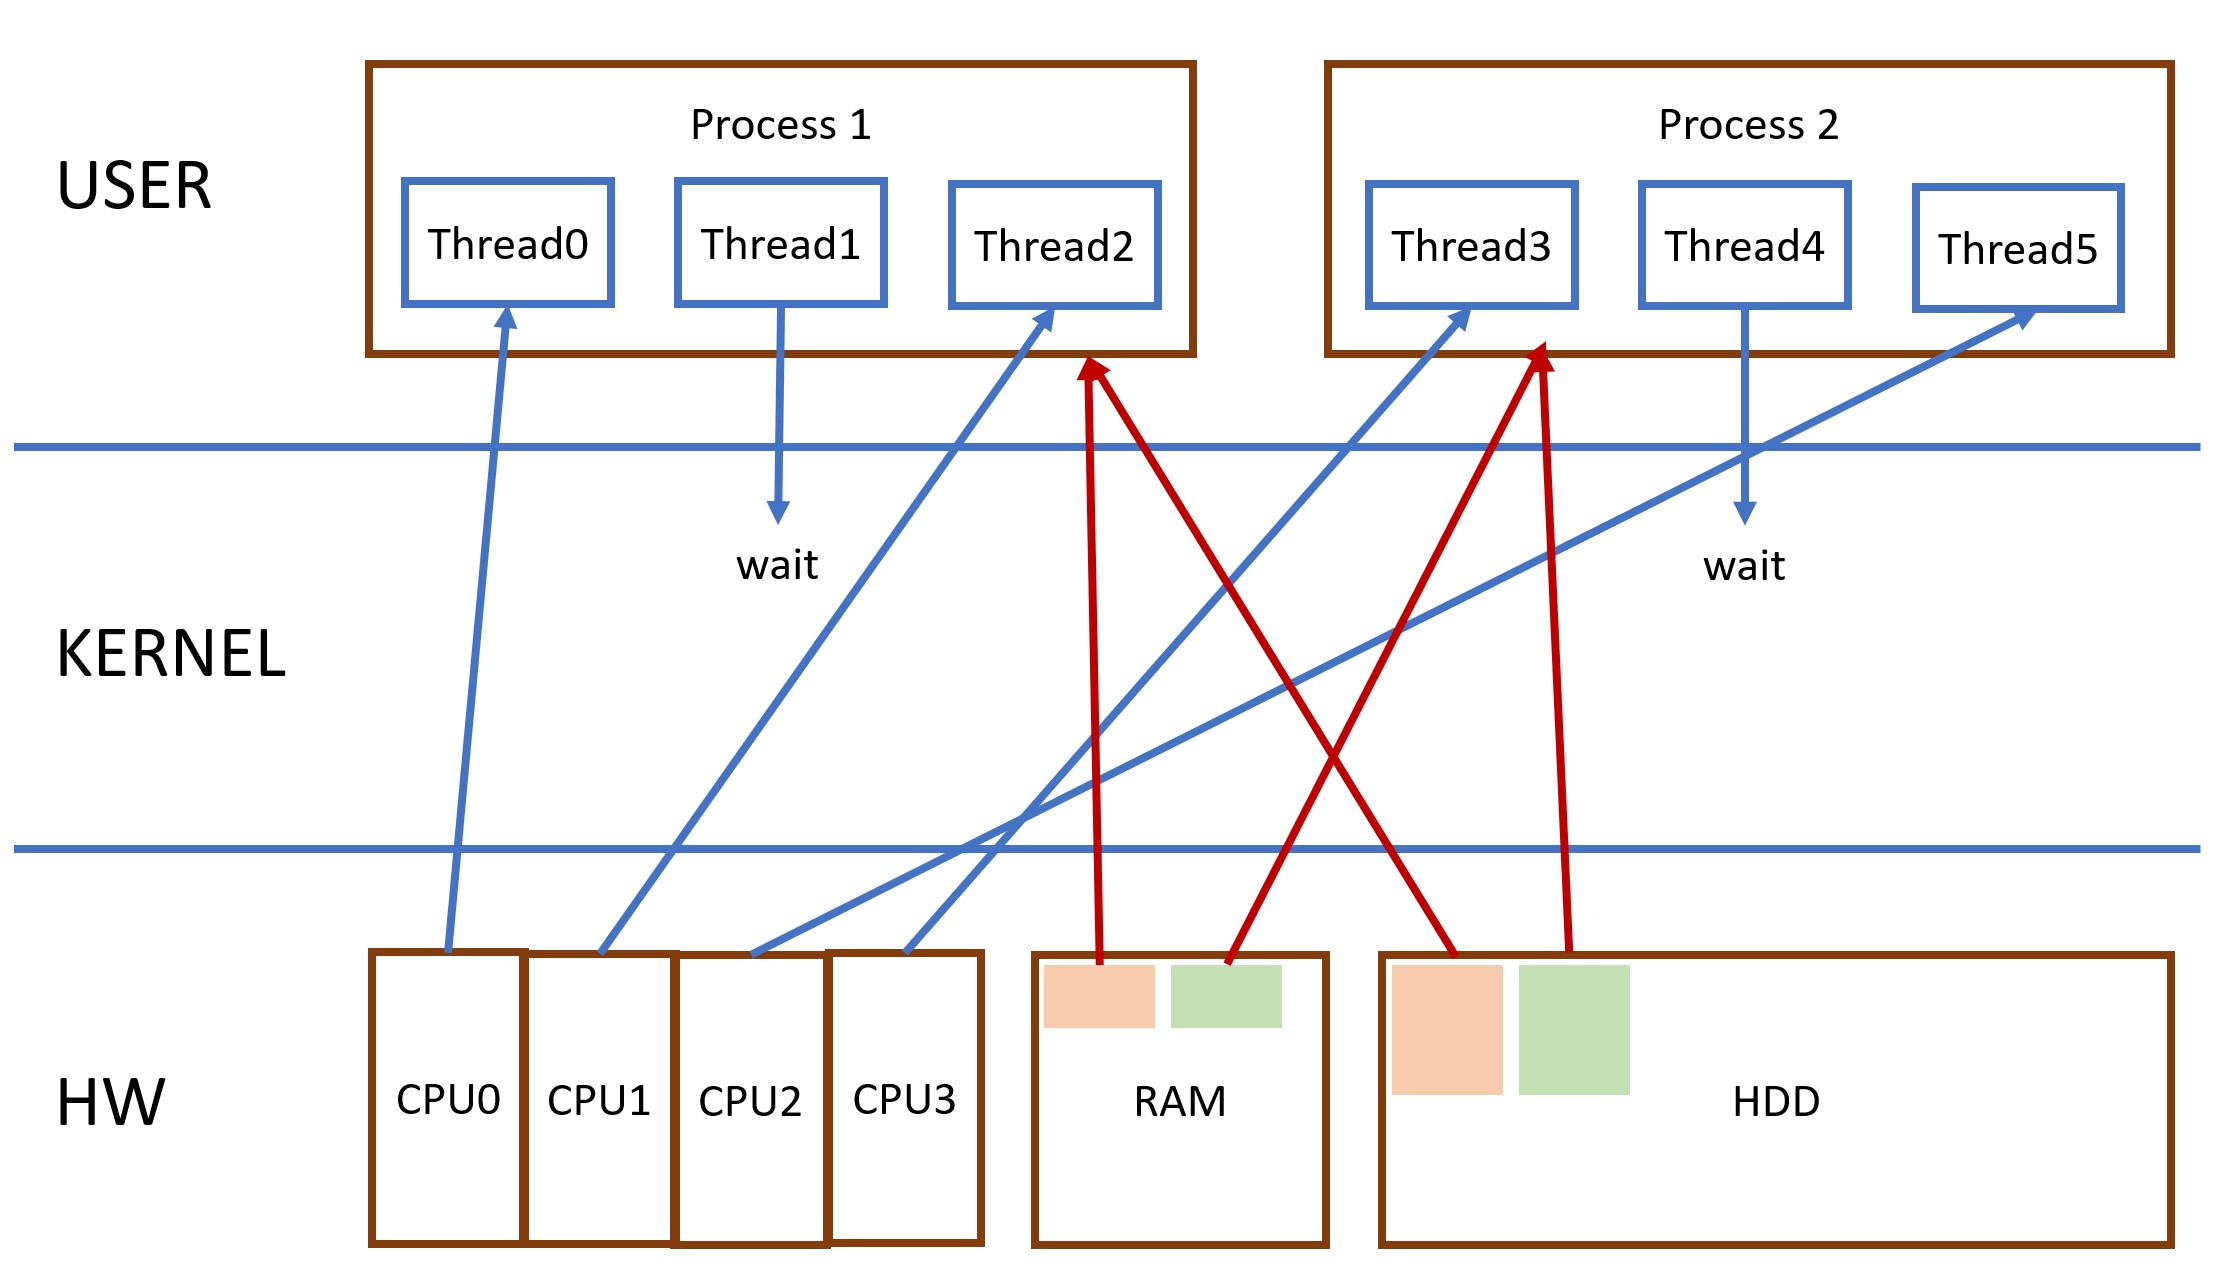
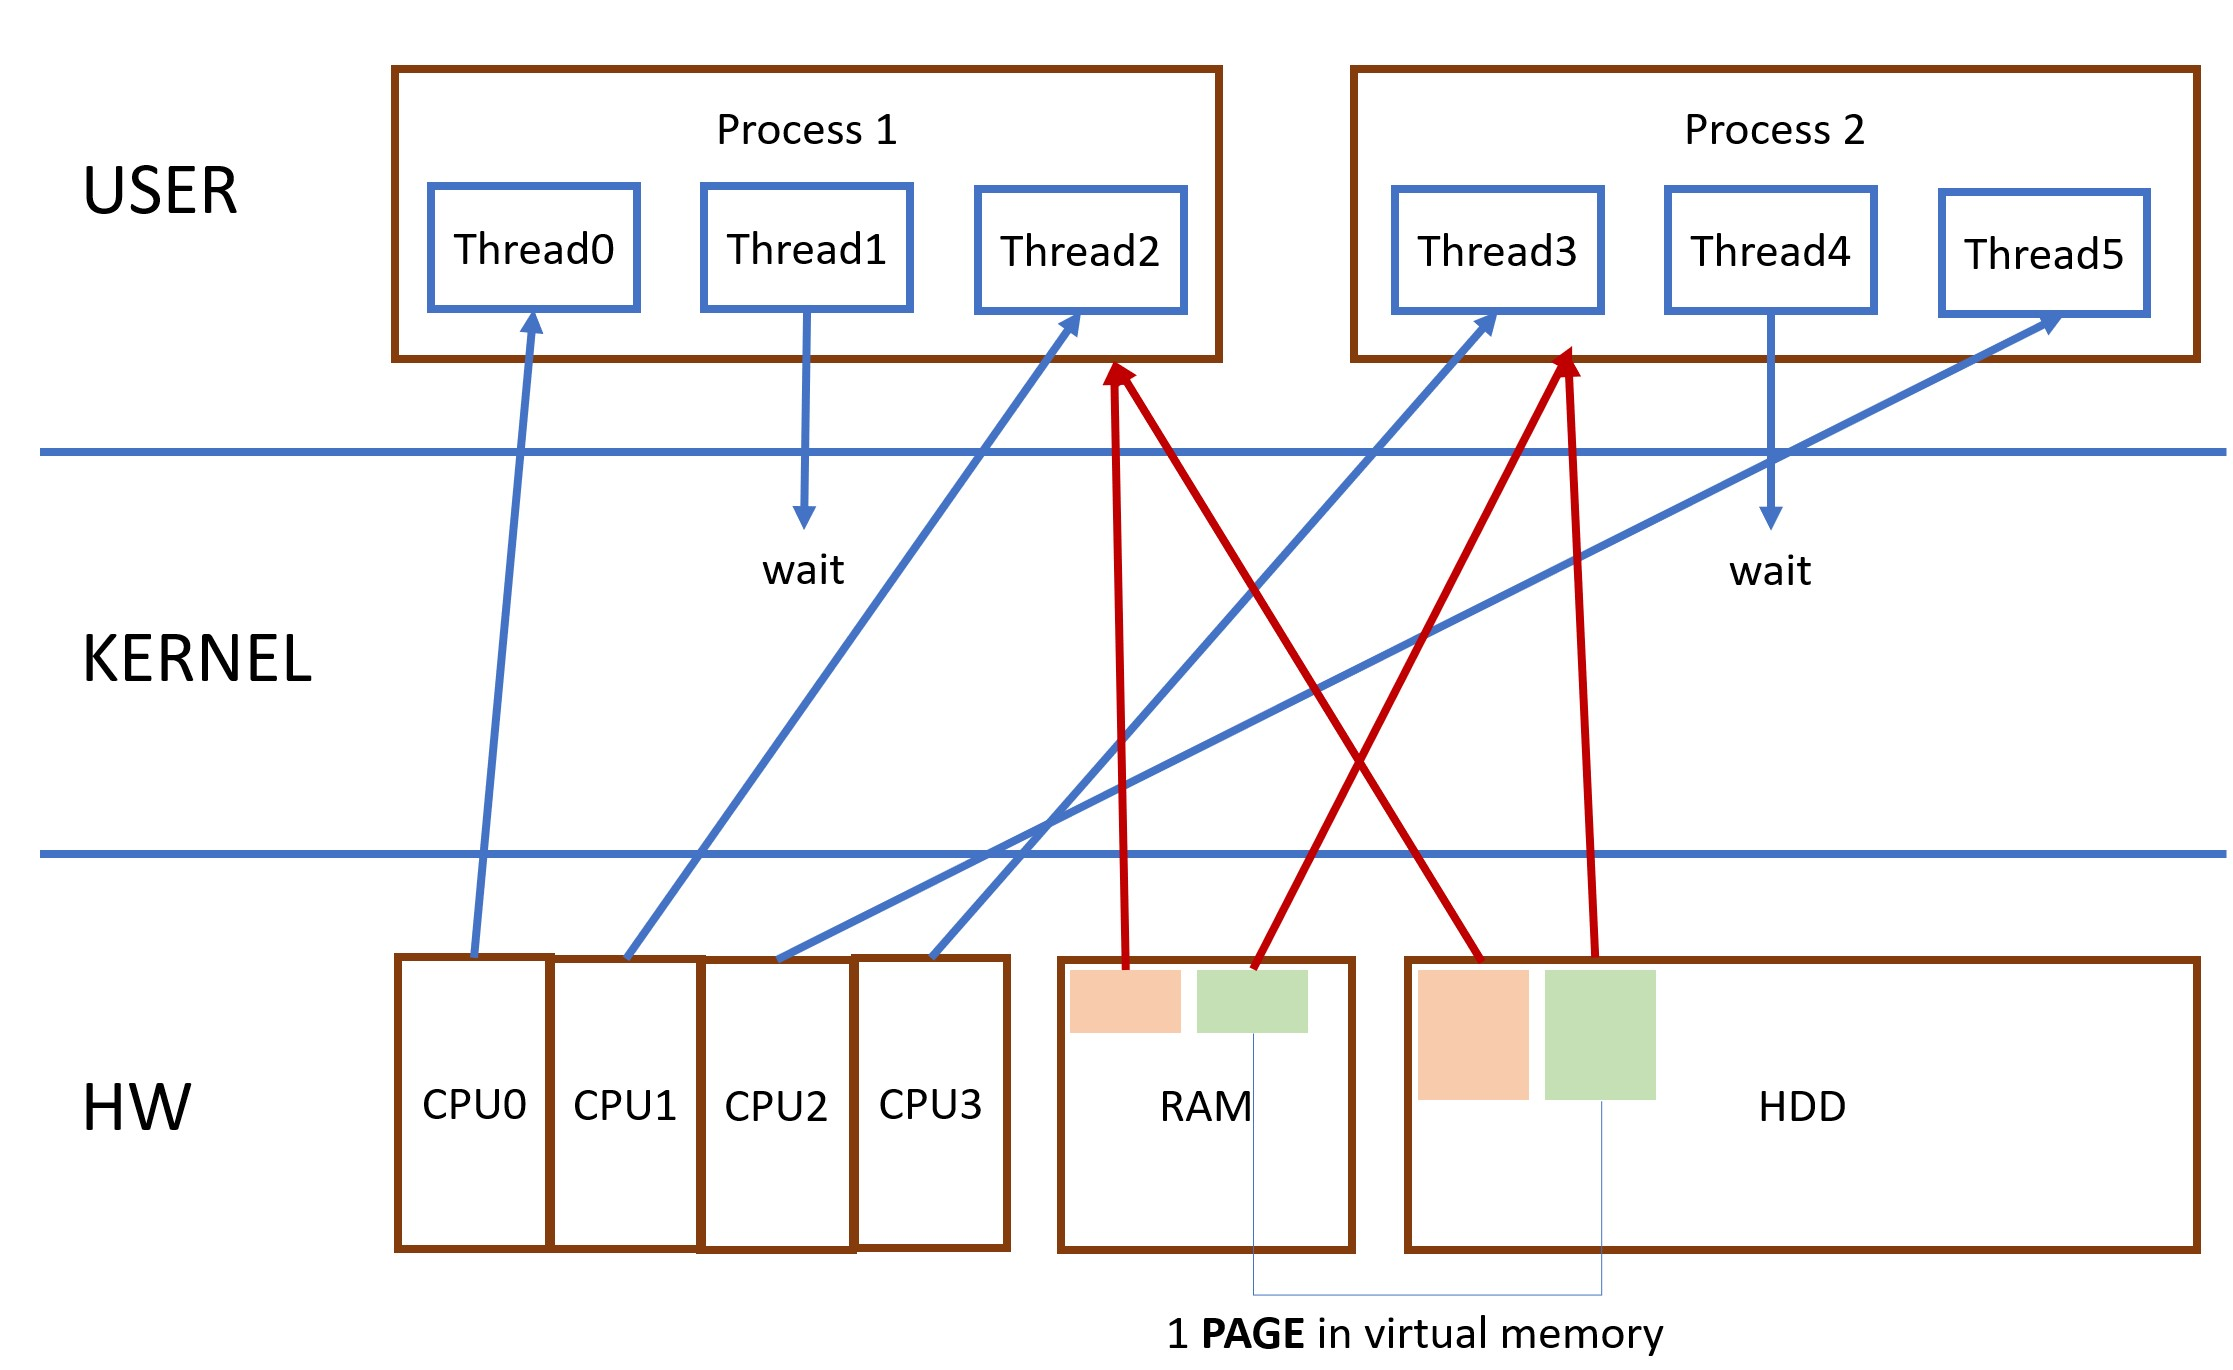
blog

diff --git a/_posts/Daily/2022-11-23-3rdBlog.md b/_posts/Daily/2022-11-23-3rdBlog.md
@@ -1,16 +1,14 @@
 ---
 layout: post
-title: Hello 3rd Blog
-subtitle: hello world!!!333
+title: Gamification of Education
+subtitle:
 date: 2022-11-23 12:30
 author: Dongsoo Kim
 image:
-lead: "leadleadlead"
+lead:
 category: Daily-Blog
 ---
 
-#33333333 Blog Again
+<iframe width="100%" height="300" src="https://www.youtube.com/embed/mOssYTimQwM" title="YouTube video player" frameborder="0" allow="accelerometer; autoplay; clipboard-write; encrypted-media; gyroscope; picture-in-picture" allowfullscreen></iframe>
 
-categoyName/year/month/day/title.html
-
-## asdf
+Some business idea sounds wonderful and at a glance, it seems so promising and fun. However, it can be totally different story when you analyse its earning models and effects, feasibilities, and especially the logics behind it. Yes, while I studied and experienced several business models, I realised the logic (why this business is needed and how it should be structured within that reasons, and what it will bring as a result) is the most important part for planning business. Gamification of Education is not a new concepts at all and many times it failed. I am not against the gamification. However, I want to point out certain conditions would be required to make a successful, sustainable gamified education business.

diff --git a/_posts/Daily/2021-04-09-valueofbooks.md b/_posts/Daily/2021-04-09-valueofbooks.md
@@ -5,11 +5,11 @@ subtitle: Why books still matter?
 date: 2022-04-09 12:30
 author: Dongsoo Kim
 image:
-lead: "leadleadlead"
+lead:
 category: Daily-Blog
 ---
 
-<iframe width="100%" height="360" src="https://www.youtube.com/embed/6Gw5dK48MtI" title="YouTube video player" frameborder="0" allow="accelerometer; autoplay; clipboard-write; encrypted-media; gyroscope; picture-in-picture" allowfullscreen></iframe>
+<iframe width="100%" height="300" src="https://www.youtube.com/embed/6Gw5dK48MtI" title="YouTube video player" frameborder="0" allow="accelerometer; autoplay; clipboard-write; encrypted-media; gyroscope; picture-in-picture" allowfullscreen></iframe>
 
 I recently read an article saying, the ratio of people who read books is rapidly plummeting and people spend less than 10 minutes a day reading a book on average. New media or information sources such as Google search, Youtube video, Wikipedia replacing books is not a surprising news anymore. We can get as much as information as soon as we want, and simpler than ever. Then, I wonder what makes book still valuable and what makes people still spend their money and time buying, looking for good books. And based on what I experienced, I found two reasons why books should be here to stay.
 

diff --git a/_posts/Cs/2022-12-07-os.md b/_posts/Cs/2022-12-07-os.md
@@ -1,7 +1,7 @@
 ---
 layout: post
-title: AIチャットボット「イルダ」から見たAI倫理
-subtitle: イルダ
+title: Operating System 101
+subtitle: What is OS and what does OS do?
 date: 2022-12-07 14:37
 author: Dongsoo Kim
 image:
@@ -9,6 +9,8 @@ lead:
 category: Cs
 ---
 
-## **AI はいつも価値中立的になっているべきですか？**
+Writing post about OS would be one of the most difficult works because there are so many concepts and theories behind it. At the same time, however, as it is fundamental for Computer Science and crucial knowledge, I dare to write what I understood about OS. This post will be revised at any time.
 
-あなたはどう思いますか？<br>
+## What is Operating System?
+
+<img src='img/post_img/cs/os.jpg' alt='frame' width='600px'><br>
